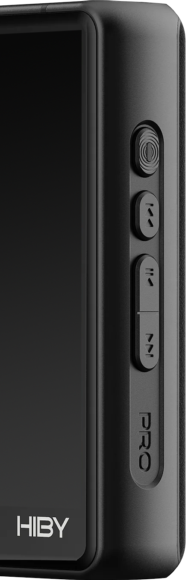
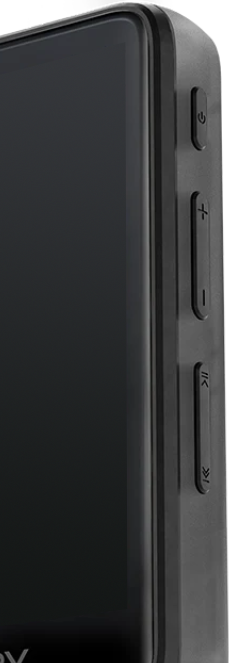
Add remap page support for R1
Also change the Country list for Radio

diff --git a/sonix-player/src/gui/settings/remap.c b/sonix-player/src/gui/settings/remap.c
@@ -20,6 +20,7 @@
 #include "src/system/image/stb_image_decl.h"
 #include "src/system/input/keymap.h"
 #include "src/system/core/lang.h"
+#include "src/system/device/sysinfo.h"
 
 lv_obj_t *remap_screen;
 
@@ -48,6 +49,11 @@ lv_obj_t *remap_screen;
 // The PNG has transparent corners, so transparency is resolved once here by
 // blending every pixel against the page background; from there on it is plain
 // RGB565, the panel's format.
+//
+// The R1 has every button on its right flank -- power, the volume rocker, then
+// play/pause over next -- so there it is one photo, the media side's files,
+// with four rows and no swap control. That photo is cut off at the bottom and
+// sits on the bottom edge of the screen, and its rows are taller.
 // ---------------------------------------------------------------------------
 
 #define PHOTO_PLAY_DARK SONIX_RESOURCE_DIR "/gui/remap-play-dark.png"
@@ -60,15 +66,20 @@ lv_obj_t *remap_screen;
 // only constants on this page that depend on the images.
 #define PHOTO_W 186
 #define PHOTO_H 580
+#define R1_PHOTO_W 229
+#define R1_PHOTO_H 663
 
 // Ten pixels clear of the bottom edge. With a 580-tall photo on a 720-tall
 // panel, what is left at the top is exactly the header space, which is why this
-// page can carry a title like every other.
+// page can carry a title like every other. The R1's photo is cut, so it goes
+// right down to the edge.
 #define PHOTO_BOTTOM_GAP 10
+#define R1_PHOTO_BOTTOM_GAP 0
 
 // Length of the leader line tying a row to its button, and the row height.
 #define LEADER_W 18
 #define ROW_H 44
+#define R1_ROW_H 56
 
 // The buttons, as rectangles inside the photo. They are generous in width --
 // the pictured button is thirty pixels wide, which is not a touch target -- but
@@ -93,11 +104,19 @@ static const hit_t VOL_HITS[] = {
 	{KEYMAP_BTN_VOL_DOWN, 202, 58},
 };
 
+// The R1's one flank, top to bottom under the power button: the volume rocker,
+// then play/pause over next.
+static const hit_t R1_HITS[] = {
+	{KEYMAP_BTN_VOL_UP, 190, 64},
+	{KEYMAP_BTN_VOL_DOWN, 254, 64},
+	{KEYMAP_BTN_PLAY, 360, 66},
+	{KEYMAP_BTN_NEXT, 426, 67},
+};
+
 // Where the touch zone starts inside the photo. On the right flank the buttons
 // sit on the right of the image, on the left flank on the left: it is the same
 // device seen from the other side.
 #define HIT_W 86
-#define PLAY_HIT_X (PHOTO_W - HIT_W)
 #define VOL_HIT_X 0
 
 typedef struct {
@@ -117,6 +136,9 @@ static side_t vol_side = {PHOTO_VOL_DARK, PHOTO_VOL_LIGHT, 0, NULL, NULL, {{0}},
 static lv_obj_t *value_labels[KEYMAP_BTN_COUNT];
 static lv_obj_t *rows[KEYMAP_BTN_COUNT];
 
+static int photo_w, photo_h; // the photos in use: the R3 Pro II's or the R1's
+static int row_h;
+static const lv_font_t *row_font;
 static int photo_y;			 // the same for both sides
 static int screen_w;
 static bool showing_vol;	 // which of the two is on stage
@@ -130,6 +152,9 @@ static uint16_t pack565(int r, int g, int b) {
 }
 
 static void side_free(side_t *side) {
+	if (!side->panel) {
+		return; // a side this player does not have
+	}
 	if (side->image) {
 		lv_image_set_src(side->image, NULL);
 		lv_obj_add_flag(side->image, LV_OBJ_FLAG_HIDDEN);
@@ -146,6 +171,9 @@ static void side_free(side_t *side) {
 }
 
 static bool side_load(side_t *side, lv_color_t bg) {
+	if (!side->panel) {
+		return false;
+	}
 	side_free(side);
 
 	const char *path = theme_is_dark() ? side->dark : side->light;
@@ -329,9 +357,11 @@ static void swap_clicked_cb(lv_event_t *e) {
 // edge.
 static void sides_reset(void) {
 	lv_anim_delete(play_side.panel, panel_x_cb);
-	lv_anim_delete(vol_side.panel, panel_x_cb);
 	lv_obj_set_x(play_side.panel, 0);
-	lv_obj_set_x(vol_side.panel, (int32_t)screen_w);
+	if (vol_side.panel) {
+		lv_anim_delete(vol_side.panel, panel_x_cb);
+		lv_obj_set_x(vol_side.panel, (int32_t)screen_w);
+	}
 	showing_vol = false;
 }
 
@@ -355,15 +385,15 @@ static void build_side(side_t *side, gui_config_t *cfg, const hit_t *hits, int h
 
 	side->image = lv_image_create(side->panel);
 	lv_obj_set_pos(side->image, side->x, photo_y);
-	lv_obj_set_size(side->image, PHOTO_W, PHOTO_H);
+	lv_obj_set_size(side->image, photo_w, photo_h);
 	lv_obj_add_flag(side->image, LV_OBJ_FLAG_HIDDEN); // until it is loaded
 
 	// Where the row column starts and how wide it is.
 	int col_x, col_w, leader_x;
 	if (rows_on_right) {
-		col_x = side->x + PHOTO_W + LEADER_W;
+		col_x = side->x + photo_w + LEADER_W;
 		col_w = cfg->screen_width - col_x - cfg->padding;
-		leader_x = side->x + PHOTO_W;
+		leader_x = side->x + photo_w;
 	} else {
 		col_x = cfg->padding;
 		col_w = side->x - LEADER_W - col_x;
@@ -398,8 +428,8 @@ static void build_side(side_t *side, gui_config_t *cfg, const hit_t *hits, int h
 		// 260-pixel target is easier to hit than an 86-pixel one.
 		lv_obj_t *row = lv_btn_create(side->panel);
 		rows[hit->button] = row;
-		lv_obj_set_pos(row, col_x, centre - ROW_H / 2);
-		lv_obj_set_size(row, col_w, ROW_H);
+		lv_obj_set_pos(row, col_x, centre - row_h / 2);
+		lv_obj_set_size(row, col_w, row_h);
 		lv_obj_add_style(row, &theme_style_card, 0);
 		lv_obj_add_style(row, &theme_style_card_pressed, LV_STATE_PRESSED);
 		lv_obj_set_style_radius(row, 10, 0);
@@ -414,7 +444,7 @@ static void build_side(side_t *side, gui_config_t *cfg, const hit_t *hits, int h
 		lv_label_set_long_mode(value, LV_LABEL_LONG_DOT);
 		lv_obj_set_width(value, col_w - 28);
 		lv_obj_add_style(value, &theme_style_text, 0);
-		lv_obj_set_style_text_font(value, &font_ui_20, 0);
+		lv_obj_set_style_text_font(value, row_font, 0);
 		lv_obj_align(value, LV_ALIGN_LEFT_MID, 0, 0);
 	}
 }
@@ -447,36 +477,49 @@ void remap_init(gui_config_t *cfg) {
 	lv_obj_add_style(remap_screen, &theme_style_screen, 0);
 	lv_obj_remove_flag(remap_screen, LV_OBJ_FLAG_SCROLLABLE);
 
+	const sysinfo_model_t *model = sysinfo_model();
+	if (!model) {
+		model = sysinfo_model_by_panel(cfg->screen_width, cfg->screen_height);
+	}
+	bool one_flank = model && model->one_flank;
+
+	photo_w = one_flank ? R1_PHOTO_W : PHOTO_W;
+	photo_h = one_flank ? R1_PHOTO_H : PHOTO_H;
+	row_h = one_flank ? R1_ROW_H : ROW_H;
+	row_font = one_flank ? &font_ui_22 : &font_ui_20;
 	screen_w = cfg->screen_width;
-	photo_y = cfg->screen_height - PHOTO_BOTTOM_GAP - PHOTO_H;
+	photo_y = cfg->screen_height - (one_flank ? R1_PHOTO_BOTTOM_GAP : PHOTO_BOTTOM_GAP) - photo_h;
 
 	lv_obj_t *title = settingsrow_title(remap_screen, cfg, "remap_buttons");
-	settingsrow_title_corner_slots(title, cfg, 1);
-
-	// The swap control, in the top-right corner where every page keeps its
-	// action.
-	lv_obj_t *swap = lv_btn_create(remap_screen);
-	lv_obj_set_size(swap, 56, 56);
-	lv_obj_set_style_bg_opa(swap, LV_OPA_TRANSP, 0);
-	lv_obj_set_style_border_width(swap, 0, 0);
-	lv_obj_set_style_shadow_width(swap, 0, 0);
-	lv_obj_set_style_pad_all(swap, 0, 0);
-	lv_obj_align(swap, LV_ALIGN_TOP_RIGHT, -cfg->padding, cfg->padding + cfg->top_bar_height);
-	lv_obj_add_event_cb(swap, swap_clicked_cb, LV_EVENT_CLICKED, NULL);
-
-	lv_obj_t *swap_icon = lv_image_create(swap);
-	lv_image_set_src(swap_icon, &icon_swap_remap);
-	lv_obj_add_style(swap_icon, &theme_style_icon, 0);
-	lv_obj_center(swap_icon);
+	settingsrow_title_corner_slots(title, cfg, one_flank ? 0 : 1);
 
 	// Media side pinned to the left edge, volume side to the right: it is the
 	// same device seen from the other side, and placing it on the other side
 	// reads as turning the device over in the hand.
 	play_side.x = 0;
-	vol_side.x = cfg->screen_width - PHOTO_W;
+	if (one_flank) {
+		build_side(&play_side, cfg, R1_HITS, (int)(sizeof(R1_HITS) / sizeof(R1_HITS[0])), photo_w - HIT_W, true);
+	} else {
+		// The swap control, in the top-right corner where every page keeps its
+		// action.
+		lv_obj_t *swap = lv_btn_create(remap_screen);
+		lv_obj_set_size(swap, 56, 56);
+		lv_obj_set_style_bg_opa(swap, LV_OPA_TRANSP, 0);
+		lv_obj_set_style_border_width(swap, 0, 0);
+		lv_obj_set_style_shadow_width(swap, 0, 0);
+		lv_obj_set_style_pad_all(swap, 0, 0);
+		lv_obj_align(swap, LV_ALIGN_TOP_RIGHT, -cfg->padding, cfg->padding + cfg->top_bar_height);
+		lv_obj_add_event_cb(swap, swap_clicked_cb, LV_EVENT_CLICKED, NULL);
 
-	build_side(&play_side, cfg, PLAY_HITS, (int)(sizeof(PLAY_HITS) / sizeof(PLAY_HITS[0])), PLAY_HIT_X, true);
-	build_side(&vol_side, cfg, VOL_HITS, (int)(sizeof(VOL_HITS) / sizeof(VOL_HITS[0])), VOL_HIT_X, false);
+		lv_obj_t *swap_icon = lv_image_create(swap);
+		lv_image_set_src(swap_icon, &icon_swap_remap);
+		lv_obj_add_style(swap_icon, &theme_style_icon, 0);
+		lv_obj_center(swap_icon);
+
+		vol_side.x = cfg->screen_width - photo_w;
+		build_side(&play_side, cfg, PLAY_HITS, (int)(sizeof(PLAY_HITS) / sizeof(PLAY_HITS[0])), photo_w - HIT_W, true);
+		build_side(&vol_side, cfg, VOL_HITS, (int)(sizeof(VOL_HITS) / sizeof(VOL_HITS[0])), VOL_HIT_X, false);
+	}
 
 	sides_reset();
 	refresh_values();

diff --git a/sonix-player/src/system/streaming/radio.c b/sonix-player/src/system/streaming/radio.c
@@ -347,6 +347,61 @@ static int result_station_count;
 // of the next one.
 static int result_raw_count;
 
+// ---------------------------------------------------------------------------
+// Country names
+//
+// The directory names countries the ISO 3166 way: "The Russian Federation",
+// "The United States Of America", "Korea, Republic Of". Sorted as they come,
+// Russia sits under T and both Koreas under K with nothing to tell them
+// apart. The label shown and sorted on is the everyday name instead: from the
+// ISO code where the official one is not what anybody looks for, otherwise the
+// official one without a leading "The" and without anything after a comma or
+// an opening bracket. The search still sends the directory's own name.
+// ---------------------------------------------------------------------------
+
+static const struct {
+	const char code[3];
+	const char *name;
+} COUNTRY_NAMES[] = {
+	{"AE", "United Arab Emirates"}, {"BN", "Brunei"},		  {"BO", "Bolivia"},
+	{"BQ", "Caribbean Netherlands"}, {"BS", "Bahamas"},		  {"CD", "DR Congo"},
+	{"CF", "Central African Republic"}, {"CG", "Congo"},	  {"CV", "Cape Verde"},
+	{"CZ", "Czechia"},				{"DO", "Dominican Republic"}, {"FK", "Falkland Islands"},
+	{"FM", "Micronesia"},			{"FO", "Faroe Islands"},  {"GB", "United Kingdom"},
+	{"GM", "Gambia"},				{"HK", "Hong Kong"},	  {"IR", "Iran"},
+	{"KM", "Comoros"},				{"KP", "North Korea"},	  {"KR", "South Korea"},
+	{"KY", "Cayman Islands"},		{"LA", "Laos"},			  {"MD", "Moldova"},
+	{"MF", "Saint Martin"},			{"MH", "Marshall Islands"}, {"MK", "North Macedonia"},
+	{"MO", "Macao"},				{"MV", "Maldives"},		  {"NE", "Niger"},
+	{"NL", "Netherlands"},			{"PH", "Philippines"},	  {"PS", "Palestine"},
+	{"RU", "Russia"},				{"SD", "Sudan"},		  {"SY", "Syria"},
+	{"SZ", "Eswatini"},				{"TC", "Turks and Caicos Islands"}, {"TL", "Timor-Leste"},
+	{"TW", "Taiwan"},				{"TZ", "Tanzania"},		  {"US", "United States"},
+	{"VA", "Vatican City"},			{"VE", "Venezuela"},	  {"VG", "British Virgin Islands"},
+	{"VI", "US Virgin Islands"},	{"VN", "Vietnam"},
+};
+
+static void country_label(const char *name, const char *code, char *out, size_t size) {
+	for (size_t i = 0; i < sizeof(COUNTRY_NAMES) / sizeof(COUNTRY_NAMES[0]); i++) {
+		if (strcasecmp(code, COUNTRY_NAMES[i].code) == 0) {
+			snprintf(out, size, "%s", COUNTRY_NAMES[i].name);
+			return;
+		}
+	}
+
+	if (strncasecmp(name, "the ", 4) == 0) {
+		name += 4;
+	}
+	snprintf(out, size, "%s", name);
+	char *cut = strpbrk(out, ",(");
+	if (cut && cut > out) {
+		*cut = '\0';
+		for (char *e = cut - 1; e >= out && *e == ' '; e--) {
+			*e = '\0';
+		}
+	}
+}
+
 // Parses a terms response ("[{\"name\":\"italian\",\"stationcount\":123}, ...]").
 static int parse_terms(const char *json, radio_browse_t kind, radio_term_t *out, int max) {
 	int count = 0;
@@ -370,7 +425,13 @@ static int parse_terms(const char *json, radio_browse_t kind, radio_term_t *out,
 		t->stationcount = json_int(obj, end, "stationcount");
 
 		// The lists come back lower case; the label carries a leading capital.
-		snprintf(t->label, sizeof(t->label), "%s", t->name);
+		if (kind == RADIO_BROWSE_COUNTRIES) {
+			char code[8];
+			json_string(obj, end, "iso_3166_1", code, sizeof(code));
+			country_label(t->name, code, t->label, sizeof(t->label));
+		} else {
+			snprintf(t->label, sizeof(t->label), "%s", t->name);
+		}
 		if (t->label[0] >= 'a' && t->label[0] <= 'z') {
 			t->label[0] = (char)(t->label[0] - 'a' + 'A');
 		}

diff --git a/sonix-player/src/system/device/sysinfo.h b/sonix-player/src/system/device/sysinfo.h
@@ -66,6 +66,7 @@ typedef struct {
 	bool pmic_charger;		   // charged by the AXP2101 alone, no MP2731 (axpcharge.h)
 	bool cs43131;			   // one CS43131, 3.5 mm only, no HBC3000 (alsa-controls.h)
 	bool tap_wake;			   // the touch controller can wake the screen (power.h)
+	bool one_flank;			   // every button on the right flank (remap.c)
 } sysinfo_model_t;
 
 // The entry for the name in the file, or NULL when the file says nothing or

diff --git a/sonix-player/src/system/device/sysinfo.c b/sonix-player/src/system/device/sysinfo.c
@@ -29,6 +29,7 @@ static const sysinfo_model_t MODELS[] = {
 		.pmic_charger = false,
 		.cs43131 = false,
 		.tap_wake = true,
+		.one_flank = false,
 	},
 	{
 		.name = "HiBy R1",
@@ -39,6 +40,7 @@ static const sysinfo_model_t MODELS[] = {
 		.pmic_charger = true,
 		.cs43131 = true,
 		.tap_wake = false,
+		.one_flank = true,
 	},
 };
 
